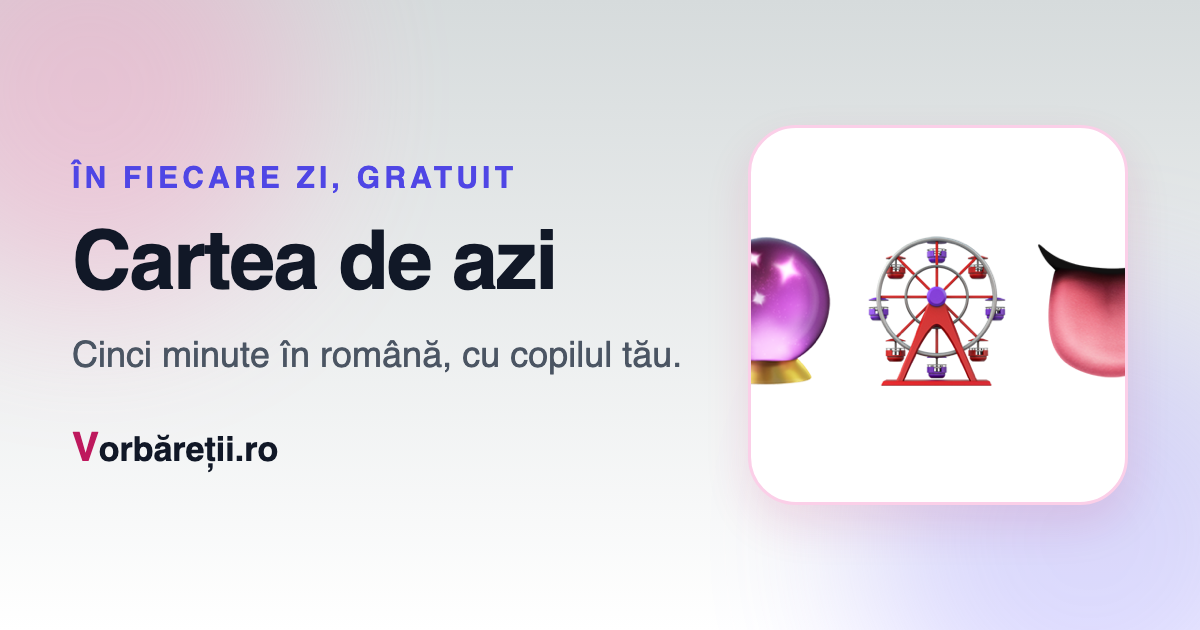
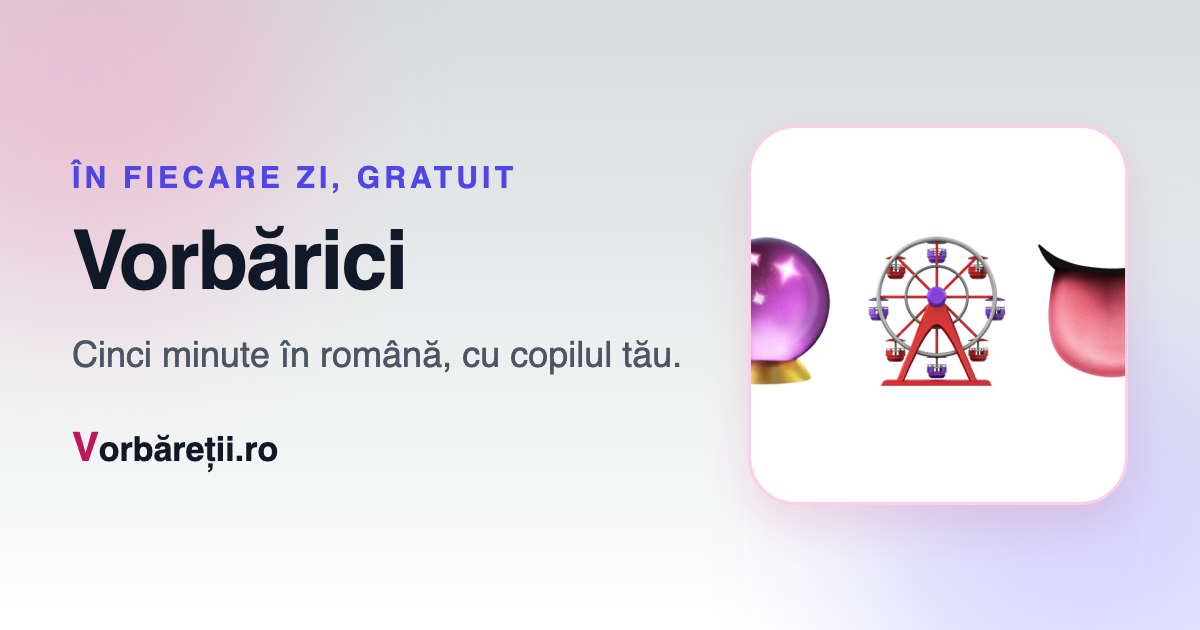
TASK-0120: rename daily ritual to Vorbărici (#156)

Changed region(s): [[0.0617, 0.3619, 0.4625, 0.4825]]

diff --git a/app/azi/page.tsx b/app/azi/page.tsx
@@ -2,14 +2,14 @@ import type { Metadata } from "next";
 import { eyebrow } from "@/app/components/ui";
 import DailyCard from "./daily-card";
 
-const pageTitle = "Cartea de azi — cinci minute în română, cu copilul";
+const pageTitle = "Vorbărici — cinci minute în română, cu copilul";
 const pageDescription =
   "O ghicitoare, o întrebare de povestit și o frământare de limbă, în fiecare zi. De făcut împreună, în cinci minute. Fără cont, fără instalare.";
 const pageImage = {
   url: "/assets/og/azi.png",
   width: 1200,
   height: 630,
-  alt: "Cartea de azi — Vorbăreții.ro",
+  alt: "Vorbărici — Vorbăreții.ro",
 };
 
 export const metadata: Metadata = {
@@ -34,7 +34,7 @@ export const metadata: Metadata = {
 };
 
 /**
- * Casa ritualului zilnic: cartea de azi și butonul care o dă mai departe.
+ * Casa ritualului zilnic: Vorbărici și butonul care o dă mai departe.
  * Pagina e server-side goală de „azi" — ziua o află clientul (export static).
  */
 export default function TodayPage() {
@@ -43,11 +43,11 @@ export default function TodayPage() {
       <header>
         <p className={eyebrow}>Cinci minute, în fiecare zi</p>
         <h1 className="mt-1 text-balance text-2xl font-bold tracking-tight text-gray-900 sm:text-3xl">
-          Cartea de azi
+          Vorbărici
         </h1>
         <p className="mt-2 max-w-[46ch] text-pretty text-sm leading-relaxed text-gray-600 sm:mt-3 sm:text-base">
-          Trei lucruri de făcut împreună — copilul și un om mare. Aceeași carte pentru toți, azi;
-          mâine, alta.
+          Trei lucruri de făcut împreună — copilul și un om mare. Aceleași trei pentru toți, azi;
+          mâine, altele.
         </p>
       </header>
 

diff --git a/scripts/test-games.ts b/scripts/test-games.ts
@@ -487,7 +487,7 @@ test("azi: textul de copiat ascunde răspunsul ghicitorii și poartă adresa", (
   const blocks = cardText(card).split("\n\n");
 
   assert.equal(blocks.length, 5, "capul, cele trei elemente și adresa");
-  assert.equal(blocks[0], "Cartea de azi — marți, 9 septembrie");
+  assert.equal(blocks[0], "Vorbărici — marți, 9 septembrie");
   assert.equal(blocks[4], "vorbaretii.ro/azi");
   card.items.forEach((item, i) => {
     assert.equal(blocks[i + 1], `${item.emoji} ${item.prompt}\n${item.second}`);

diff --git a/app/azi/card.ts b/app/azi/card.ts
@@ -115,5 +115,5 @@ export function todayCard(date: Date): RitualCard {
  */
 export function cardText(card: RitualCard): string {
   const blocks = card.items.map((item) => `${item.emoji} ${item.prompt}\n${item.second}`);
-  return [`Cartea de azi — ${card.date}`, ...blocks, "vorbaretii.ro/azi"].join("\n\n");
+  return [`Vorbărici — ${card.date}`, ...blocks, "vorbaretii.ro/azi"].join("\n\n");
 }

diff --git a/app/jocuri/components/daily-riddle.tsx b/app/jocuri/components/daily-riddle.tsx
@@ -81,7 +81,7 @@ export default function DailyRiddle({ className = "" }: { className?: string }) 
             "focus-visible:outline focus-visible:outline-2 focus-visible:outline-offset-2 focus-visible:outline-indigo-600"
           }
         >
-          Cartea de azi &rarr;
+          Vorbărici &rarr;
         </a>
         <a
           href="/jocuri/ghicitori"

diff --git a/scripts/generate-og.ts b/scripts/generate-og.ts
@@ -61,7 +61,7 @@ const cards: Card[] = [
     slug: "azi",
     emojis: ["🔮", "🎡", "👅"],
     eyebrow: "În fiecare zi, gratuit",
-    title: "Cartea de azi",
+    title: "Vorbărici",
     tagline: "Cinci minute în română, cu copilul tău.",
   },
   ...articles.map((entry) => ({
